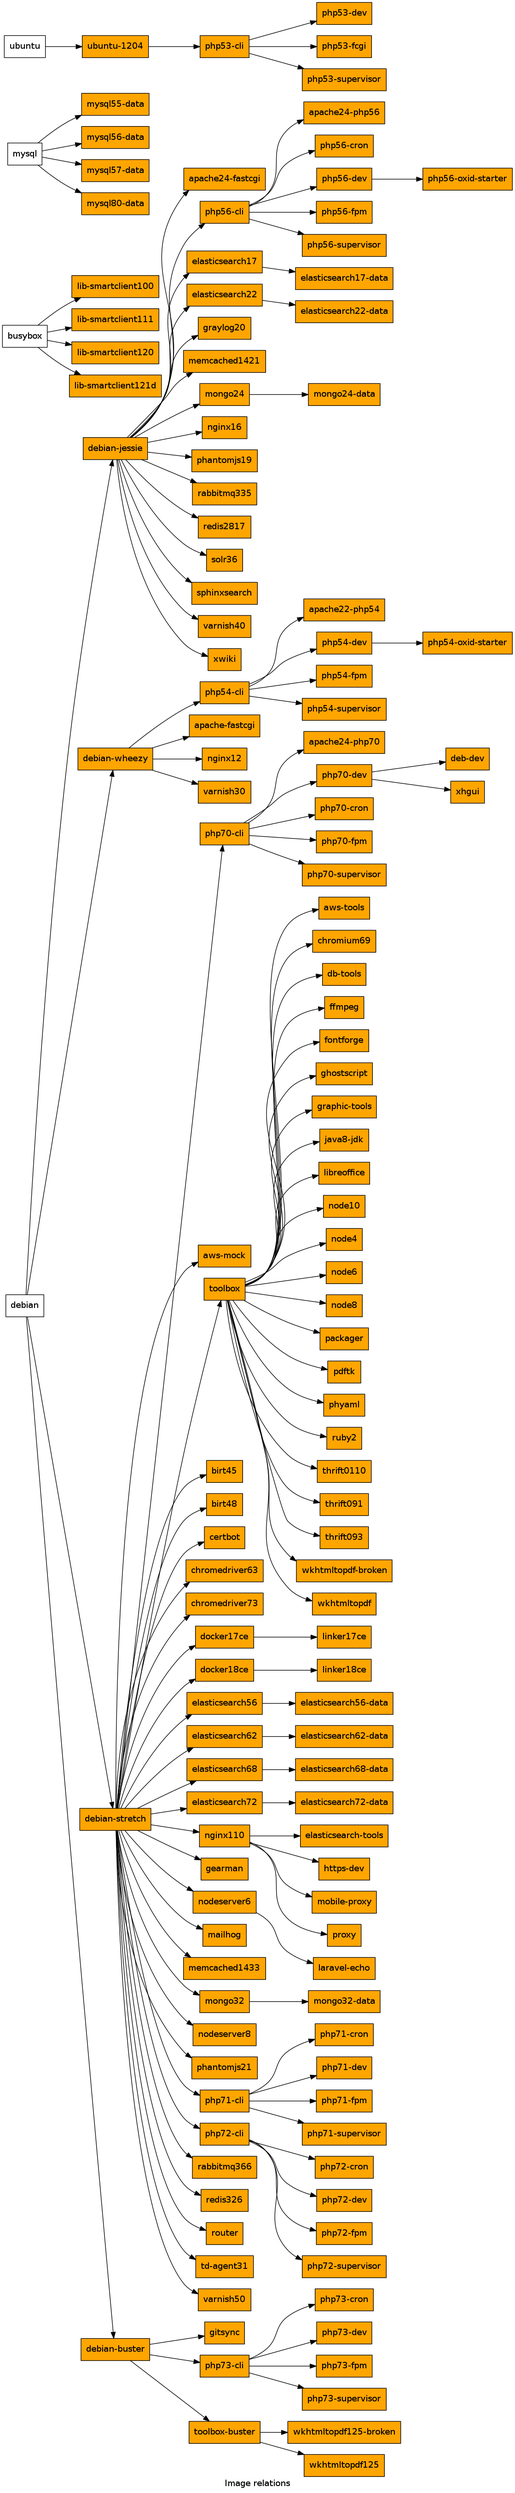
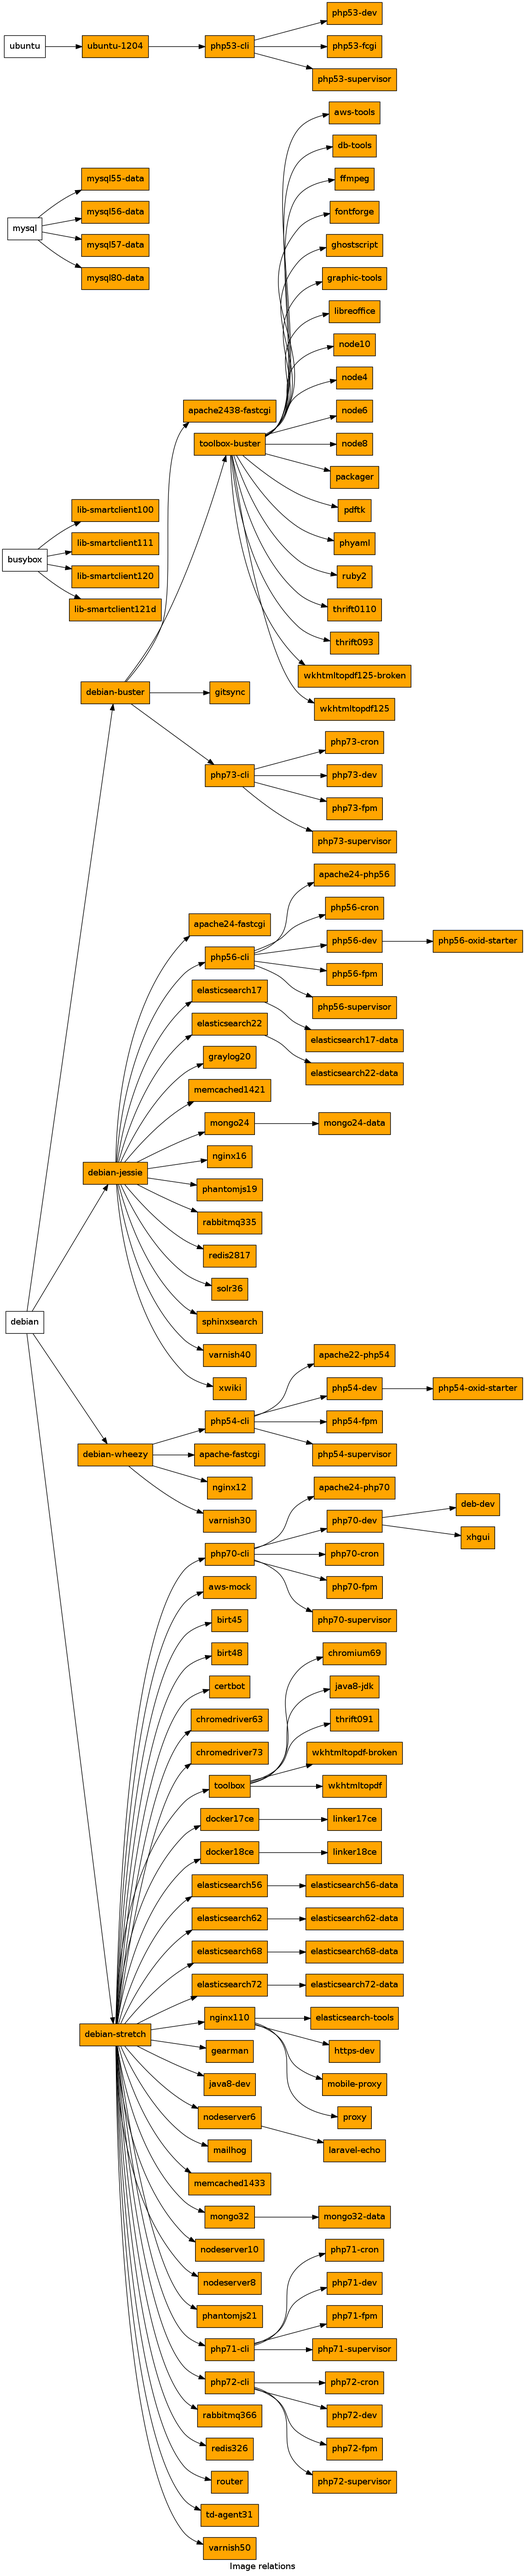
adding apache2438-fastcgi based on buster

diff --git a/apache2438-fastcgi/README.md b/apache2438-fastcgi/README.md
@@ -1,0 +1,156 @@
+
+
+## supported env vars
+
+example:
+    docker run -it --rm -e NFQ_ENABLE_APACHE_MODULES='rewrite' [this_image]
+
+
+### APACHE_DOCUMENTROOT (optional)
+
+Sets apache document root to specified path. You don't need to change that for
+projects following standard structure.
+
+default value: /home/project/src/www/web
+
+
+### APACHE_RUN_DIR (optional)
+
+default value: /var/run/apache2
+
+
+### NFQ_FCGI_IDLE_TIMEOUT (optional)
+
+Communication timeout in seconds with remote fastcgi process (eg. php-fpm).
+You'll need to increase this timeout for long running jobs executed via
+webserver.
+
+default value: 30
+
+
+### NFQ_ENABLE_APACHE_MODULES (optional)
+
+Provide space separated lists of modules in a single quoted string
+
+default value: [empty]
+
+#### list of available modules (enabled by default shown in bold)
+
+
+* access_compat
+* __actions__
+* __alias__
+* allowmethods
+* asis
+* __auth_basic__
+* auth_digest
+* auth_form
+* authn_anon
+* __authn_core__
+* authn_dbd
+* authn_dbm
+* __authn_file__
+* authn_socache
+* authnz_fcgi
+* authnz_ldap
+* __authz_core__
+* authz_dbd
+* authz_dbm
+* authz_groupfile
+* __authz_host__
+* authz_owner
+* __authz_user__
+* __autoindex__
+* brotli
+* buffer
+* cache
+* cache_disk
+* cache_socache
+* cern_meta
+* cgi
+* cgid
+* charset_lite
+* data
+* dav
+* dav_fs
+* dav_lock
+* dbd
+* __deflate__
+* dialup
+* __dir__
+* dump_io
+* echo
+* __env__
+* expires
+* ext_filter
+* fcgid
+* file_cache
+* __filter__
+* headers
+* heartbeat
+* heartmonitor
+* http2
+* ident
+* imagemap
+* include
+* info
+* lbmethod_bybusyness
+* lbmethod_byrequests
+* lbmethod_bytraffic
+* lbmethod_heartbeat
+* ldap
+* log_debug
+* log_forensic
+* lua
+* macro
+* md
+* __mime__
+* mime_magic
+* __mpm_event__
+* mpm_prefork
+* mpm_worker
+* __negotiation__
+* __proxy__
+* proxy_ajp
+* proxy_balancer
+* proxy_connect
+* proxy_express
+* __proxy_fcgi__
+* proxy_fdpass
+* proxy_ftp
+* proxy_hcheck
+* proxy_html
+* proxy_http
+* proxy_http2
+* proxy_scgi
+* proxy_uwsgi
+* proxy_wstunnel
+* ratelimit
+* reflector
+* remoteip
+* reqtimeout
+* request
+* rewrite
+* sed
+* session
+* session_cookie
+* session_crypto
+* session_dbd
+* __setenvif__
+* slotmem_plain
+* slotmem_shm
+* socache_dbm
+* socache_memcache
+* socache_shmcb
+* speling
+* ssl
+* status
+* substitute
+* suexec
+* unique_id
+* userdir
+* usertrack
+* vhost_alias
+* xml2enc
+
+
